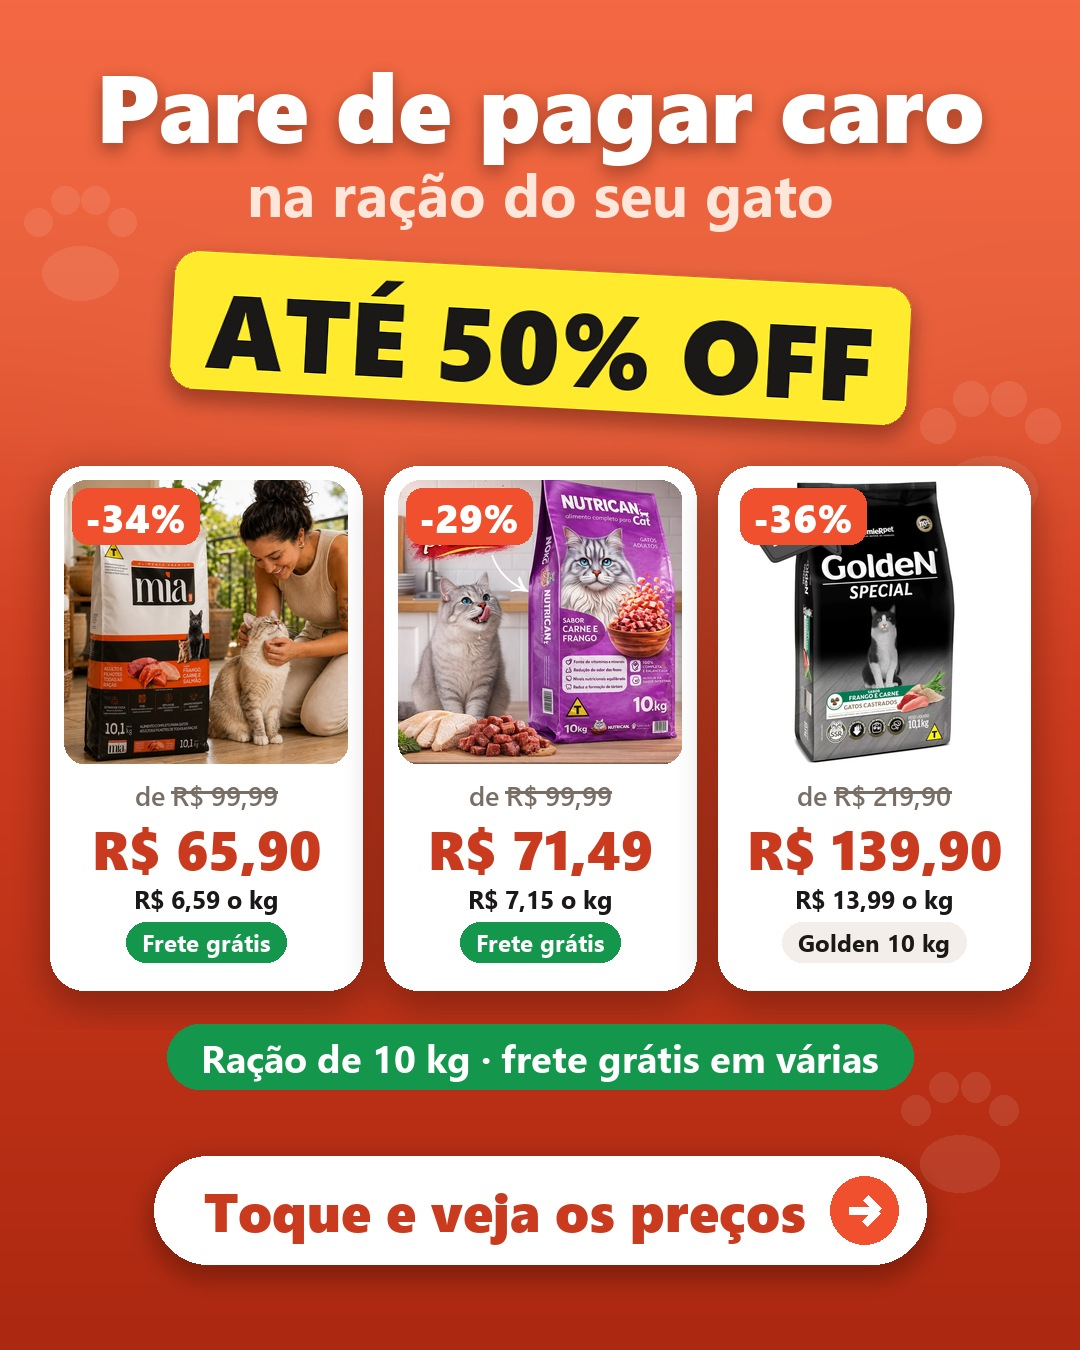
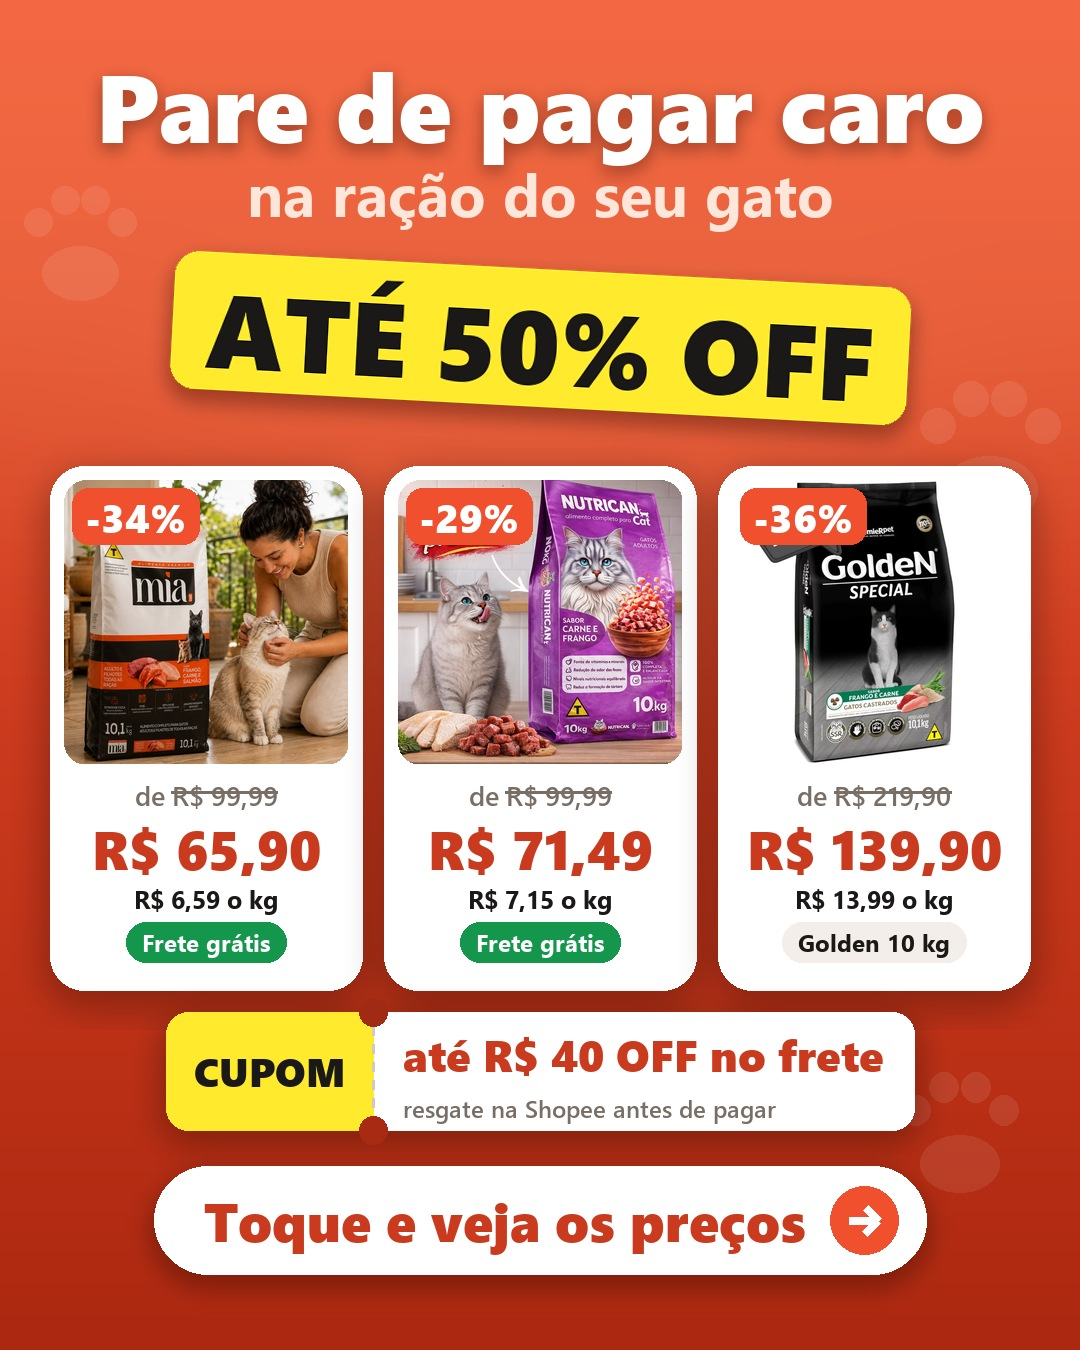
Ofertas: cupom de frete (sub_id anuncio-ofertas-cupom); criativos v5 com cupom, arte de 4 racoes e cards com a racao maior

Changed region(s): [[0.1222, 0.7467, 0.8556, 0.9644], [0.1222, 0.8711, 0.1528, 0.9022]]

diff --git a/ofertas/index.html b/ofertas/index.html
@@ -50,6 +50,14 @@ h1 em{font-style:normal;color:var(--green-deep)}
 .facts div:nth-child(2) b{color:var(--green-deep)}
 .facts span{display:block;margin-top:3px;font:600 12px/1.25 var(--body);color:var(--muted)}
 
+/* cupom em formato de ticket */
+.cupom{position:relative;display:flex;align-items:stretch;max-width:520px;margin:0 auto 22px;border-radius:18px;background:var(--surface);border:1.5px solid var(--line);text-decoration:none;text-align:left;overflow:hidden;box-shadow:0 14px 24px -22px rgba(120,60,30,.6)}
+.cupom .c-k{flex:none;display:grid;place-items:center;padding:0 14px;background:#fff36b;font:800 15px/1 var(--display);letter-spacing:.04em;color:var(--ink);border-right:2px dashed #e6d75a}
+.cupom .c-t{flex:1;min-width:0;padding:11px 12px;font:600 12.5px/1.3 var(--body);color:var(--muted)}
+.cupom .c-t b{display:block;font:800 16px/1.2 var(--display);color:var(--orange-deep);letter-spacing:-.01em}
+.cupom .c-b{flex:none;align-self:center;margin-right:10px;padding:10px 12px;border-radius:12px;background:var(--orange);color:#fff;font:800 13.5px/1 var(--display);white-space:nowrap}
+@media (hover:hover){.cupom:hover .c-b{background:var(--orange-deep)}}
+
 /* filtro */
 .tabs{display:inline-flex;gap:4px;padding:4px;margin:0 auto 16px;border-radius:16px;background:#f1ece7;max-width:100%;overflow-x:auto;scrollbar-width:none}
 .tabs::-webkit-scrollbar{display:none}
@@ -106,6 +114,13 @@ footer a{color:var(--muted);font-weight:700}
     <div><b>Frete grátis</b><span>ou até R$ 40 OFF no frete</span></div>
     <div><b>10 kg</b><span>castrados e adultos</span></div>
   </div>
+
+  <!-- Cupom de frete da Shopee (link de afiliado com Sub_id anuncio-ofertas-cupom). Abre em outra aba para a pessoa voltar às rações. -->
+  <a class="cupom" id="cupom" href="https://s.shopee.com.br/8pmns9insS" target="_blank" rel="noopener sponsored">
+    <span class="c-k">CUPOM</span>
+    <span class="c-t"><b>Até R$ 40 OFF no frete</b>Pegue antes de comprar a ração</span>
+    <span class="c-b">Pegar cupom</span>
+  </a>
 
   <div class="tabs" role="group" aria-label="Filtrar rações">
     <button type="button" data-f="todas" aria-pressed="true">Todas</button>
@@ -197,6 +212,9 @@ document.addEventListener("click", function (e) {
   function segue() { if (!foi) { foi = true; location.href = a.href; } }
   if (window.fbq) fbq("track", "AddToCart", { content_ids: [a.dataset.id], content_type: "product", value: +a.dataset.preco, currency: "BRL", origem: ORIGEM });
   setTimeout(segue, window.fbq ? 400 : 0);
+});
+document.getElementById("cupom").addEventListener("click", function () {
+  if (window.fbq) fbq("trackCustom", "CliqueCupom", { content_name: "Cupom de frete", origem: ORIGEM });
 });
 </script>
 </body>
